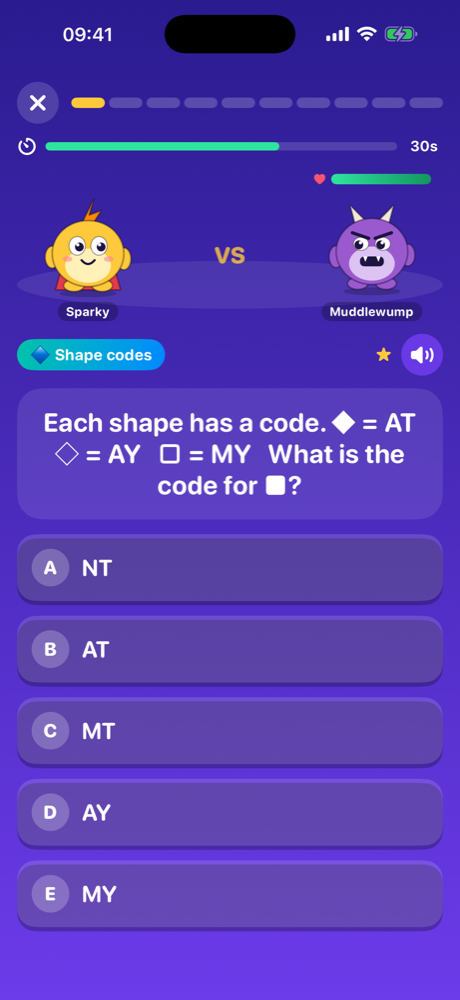
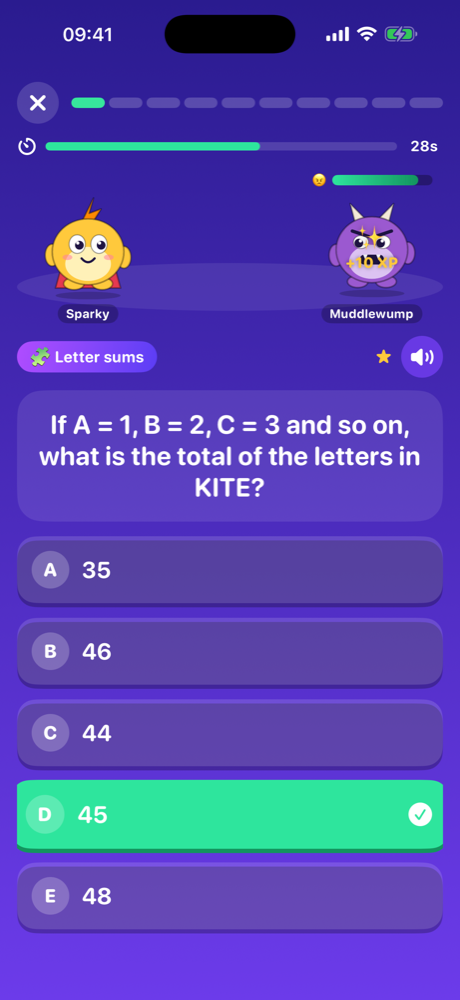
Clever Clogs: cheer up grumpy monsters, new screenshots

diff --git a/cleverclogs/index.html b/cleverclogs/index.html
@@ -19,11 +19,11 @@
   <section class="hero">
     <h1>Clever Clogs</h1>
     <hr class="rule">
-    <p class="lede">Practice games from Year 1 right up to the 11+. Children raise a buddy and battle brain monsters by answering maths, English, verbal reasoning and non-verbal reasoning questions picked for their school year.</p>
+    <p class="lede">Practice games from Year 1 right up to the 11+. Children raise a buddy and cheer up grumpy monsters by answering maths, English, verbal reasoning and non-verbal reasoning questions picked for their school year.</p>
   </section>
   <div class="shots">
     <img src="assets/iphone-1-home.png" alt="The home screen with the buddy and Daily Quest">
-    <img src="assets/iphone-2-battle.png" alt="A monster battle question">
+    <img src="assets/iphone-2-battle.png" alt="Cheering up a grumpy monster with a maths question">
     <img src="assets/iphone-3-junior.png" alt="A Year 1 question with three big answers">
     <img src="assets/iphone-4-worlds.png" alt="Topics in a subject world">
   </div>

diff --git a/index.html b/index.html
@@ -233,7 +233,7 @@
           <img src="assets/cleverclogs.png" alt="" width="64" height="64">
           <div class="status">Coming soon</div>
           <h3>Clever Clogs<small>Year 1 to 11+ Practice</small></h3>
-          <p>Practice games from Year 1 right up to the 11+. Children raise a buddy and battle brain monsters with maths, English and reasoning questions picked for their school year, read aloud for younger children. No ads, no purchases, no data collected.</p>
+          <p>Practice games from Year 1 right up to the 11+. Children raise a buddy and cheer up grumpy monsters with maths, English and reasoning questions picked for their school year, read aloud for younger children. No ads, no purchases, no data collected.</p>
           <div class="links">
             <a href="https://ranovalabs.github.io/cleverclogs/">Website</a>
           </div>
